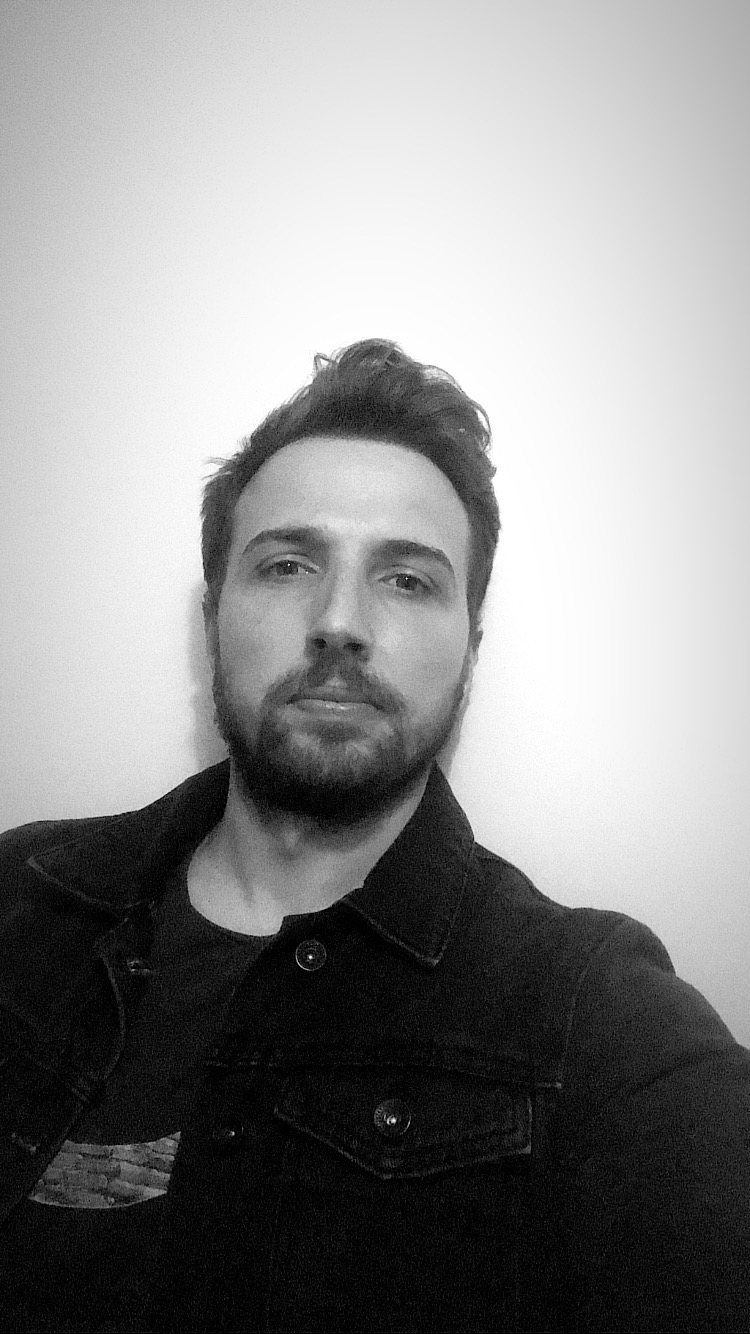
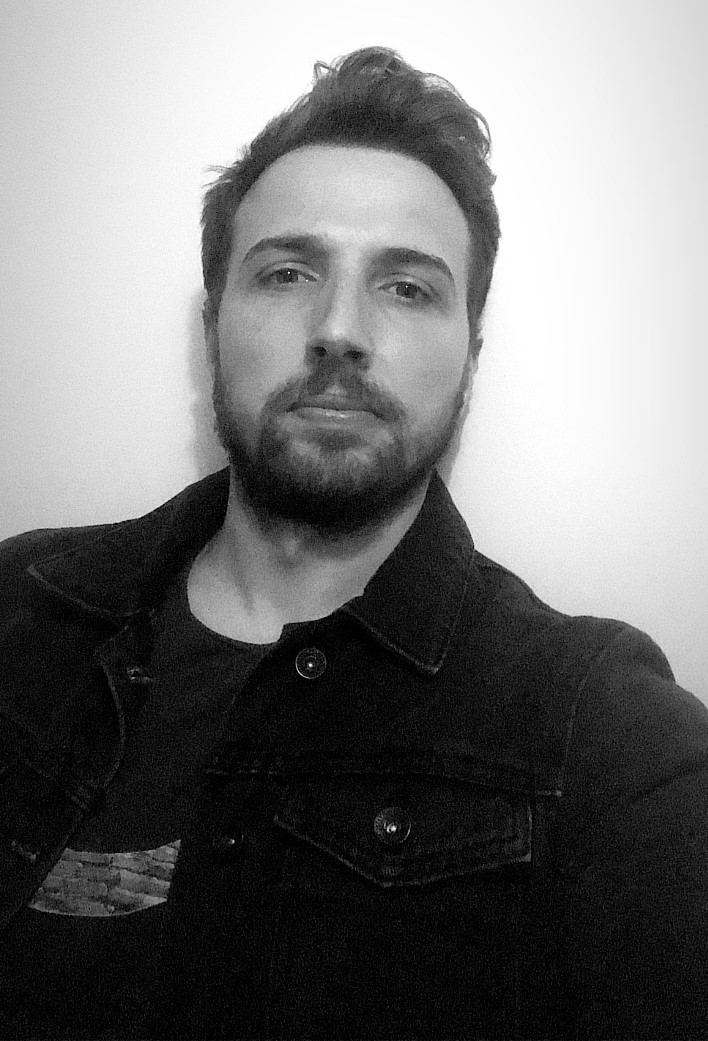
added fixed issue about photo

diff --git a/style.css b/style.css
@@ -133,8 +133,8 @@ nav .animation{
 }
 .myphoto{
   border-radius: 8px;
-  width: 320px;
-  height: 320px;
+  width: 350px;
+  height: 385px;
 }
 .question-guy{
   color:#363636 !important;
